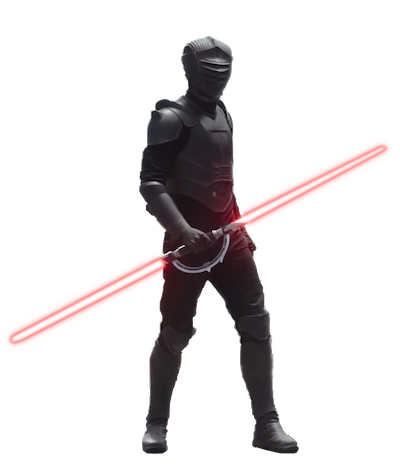
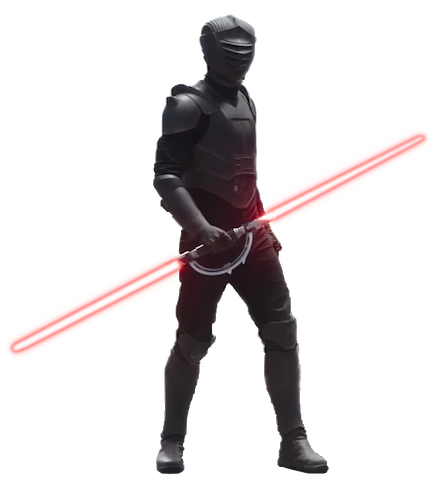
update:Marrok

diff --git a/Posters/Inquisitorius/script.js b/Posters/Inquisitorius/script.js
@@ -363,8 +363,9 @@ const numbered_inquisitors = [
     new Inquisitor({
         name:`Marrok`,
         img:"Marrok.png",
-        img_w:200,
+        img_w:220,
         img_pos:{bottom:0},
+        lightsaber_img:"Marrok_l.png",
         species:"?",
         appearances:[
             new Episode({
